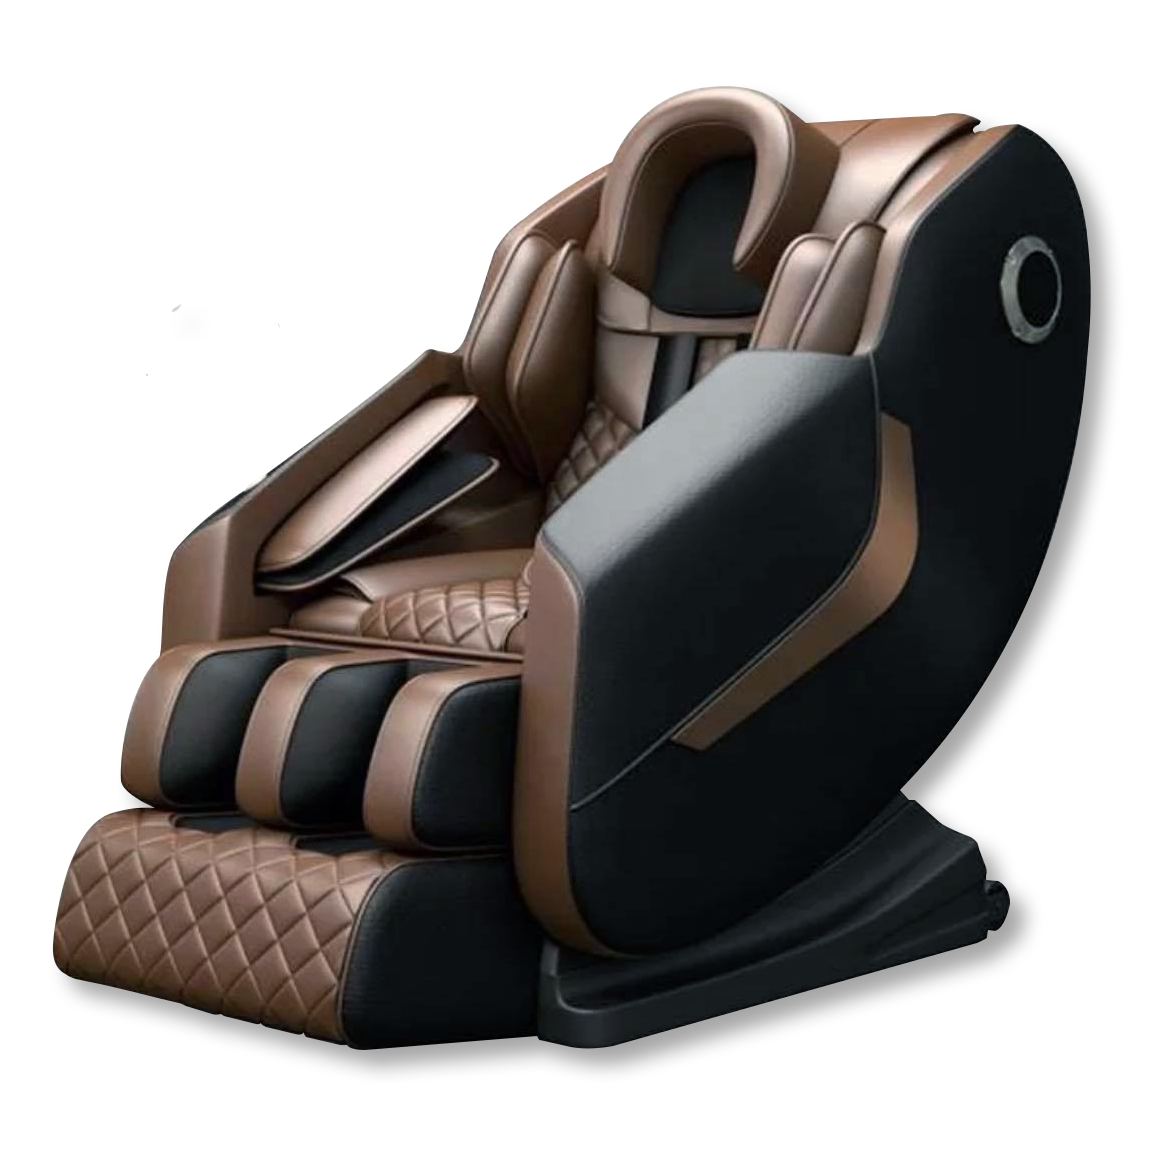
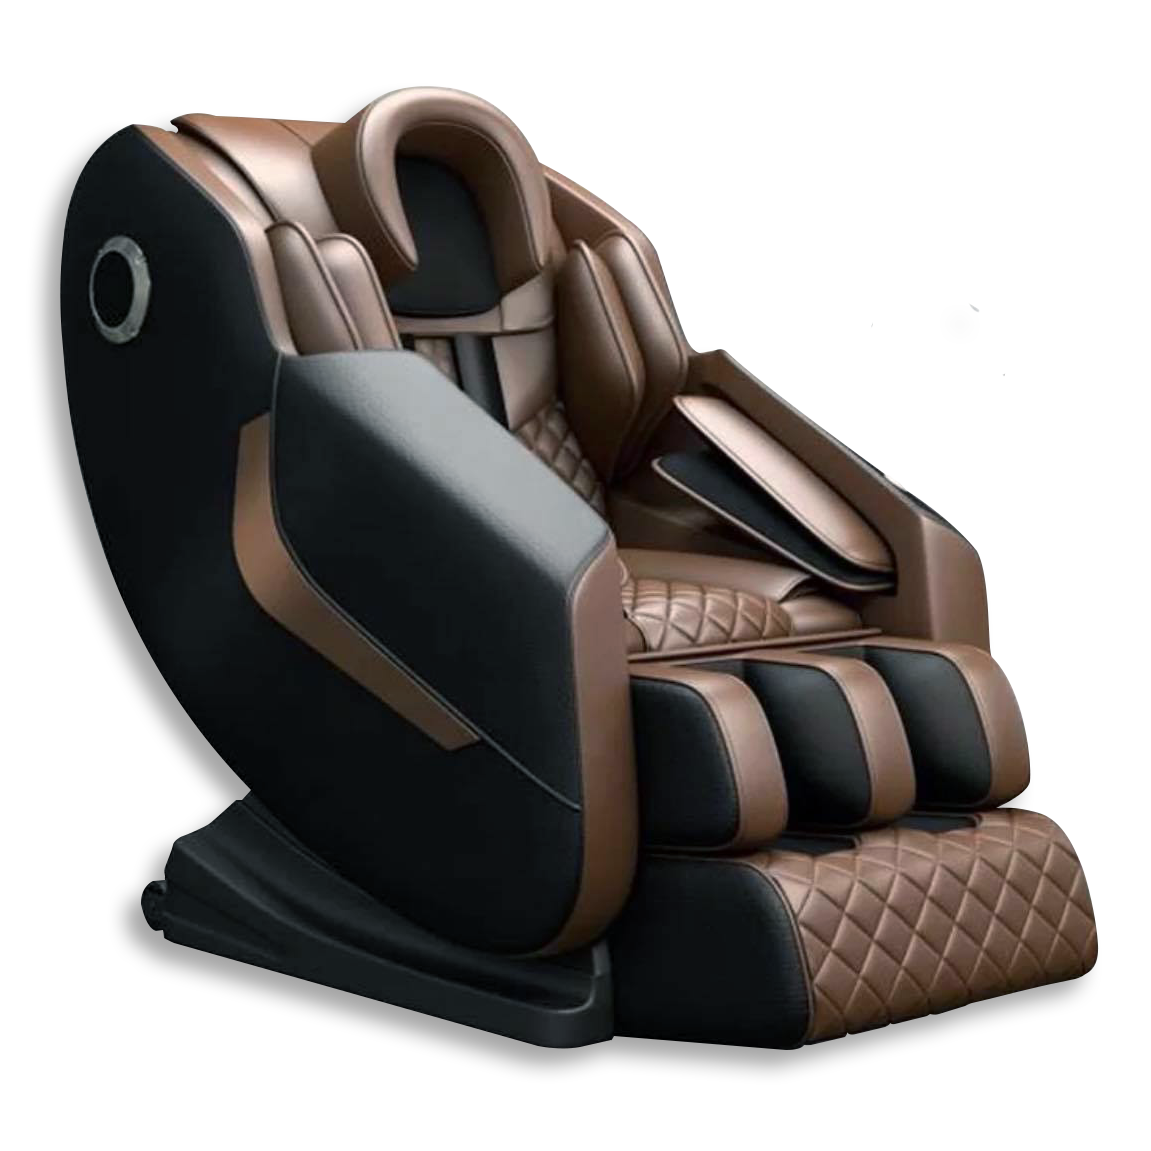
updated products

diff --git a/src/components/Products/Prestige.js b/src/components/Products/Prestige.js
@@ -3,9 +3,9 @@ import { Row, Col, Button } from "react-bootstrap";
 
 import DetailsModal from "../Modals/DetailsModal";
 import OrderFormModal from "../Modals/OrderFormModal";
-import ImageDeluxe from "../Images/ImageDeluxe";
+import ImagePrestige from "../Images/ImagePrestige";
 
-const Deluxe = () => {
+const Prestige = () => {
   const [modalDetailsShow, setModalDetailsShow] = useState(false);
   const [modalOrderShow, setModalOrderShow] = useState(false);
 
@@ -16,9 +16,9 @@ const Deluxe = () => {
   const closeModalOrder = () => setModalOrderShow(false);
 
   return (
-    <Row className="deluxe pt-5 mt-5">
+    <Row className="prestige pt-5 mt-5">
       <Col sm={12} md={6}>
-        <ImageDeluxe />
+        <ImagePrestige className="prestige-image" />
       </Col>
       <Col
         sm={12}
@@ -26,21 +26,21 @@ const Deluxe = () => {
         className="d-flex flex-column align-items-end pt-sm-0 p-md-5"
       >
         <h1 className="my-0 text-right">
-          <span className="text-primary">zion</span>Deluxe
+          <span className="text-primary">zion</span>Prestige
         </h1>
         <span className="text-danger">
           <small
             className="text-gray mr-1"
             style={{ textDecoration: "line-through" }}
           >
-            &#8369; 199,998
+            &#8369; 159,998
           </small>
-          &#8369; 99,999
+          &#8369; 79,999
         </span>
         <div className="my-3 my-md-4 my-lg-5 text-right">
           <p>Core for more Intelligent</p>
           <p>8D Massage Manipulator</p>
-          <p className="mb-0">6 Smart Massage Programs</p>
+          <p className="mb-0">Human Stimulation Massage</p>
         </div>
         <Button variant="outline-secondary" onClick={showModalDetails}>
           View Details
@@ -59,4 +59,4 @@ const Deluxe = () => {
   );
 };
 
-export default Deluxe;
+export default Prestige;

diff --git a/src/components/Images/ImagePrestige.js b/src/components/Images/ImagePrestige.js
@@ -2,14 +2,23 @@ import React from "react";
 import { useStaticQuery, graphql } from "gatsby";
 import Img from "gatsby-image";
 
-const ImagePrestige = () => {
+const ImagePrestige = ({ className }) => {
   const data = useStaticQuery(graphql`
     query {
-      placeholderImage: file(
-        relativePath: { eq: "products/Prestige-Shadow.png" }
+      prestige: file(
+        relativePath: { eq: "products/prestige/prestige-shadow.png" }
       ) {
         childImageSharp {
-          fixed(width: 500, quality: 100) {
+          fixed(width: 480, quality: 100) {
+            ...GatsbyImageSharpFixed
+          }
+        }
+      }
+      prestigeSm: file(
+        relativePath: { eq: "products/prestige/prestige-shadow.png" }
+      ) {
+        childImageSharp {
+          fixed(width: 315, quality: 100) {
             ...GatsbyImageSharpFixed
           }
         }
@@ -17,8 +26,19 @@ const ImagePrestige = () => {
     }
   `);
 
-  const imageData = data.placeholderImage.childImageSharp.fixed;
-  return <Img fixed={imageData} />;
+  const { prestigeSm, prestige } = data;
+
+  const sources = [
+    {
+      ...prestigeSm.childImageSharp.fixed,
+    },
+    {
+      ...prestige.childImageSharp.fixed,
+      media: "(min-width: 576px)",
+    },
+  ];
+
+  return <Img alt="ZionPrestige" fixed={sources} className={className} />;
 };
 
 export default ImagePrestige;

diff --git a/src/components/Images/ImageExecutive.js b/src/components/Images/ImageExecutive.js
@@ -2,14 +2,23 @@ import React from "react";
 import { useStaticQuery, graphql } from "gatsby";
 import Img from "gatsby-image";
 
-const ImageExecutive = () => {
+const ImageExecutive = ({ className }) => {
   const data = useStaticQuery(graphql`
     query {
-      placeholderImage: file(
+      executive: file(
         relativePath: { eq: "products/executive/executive-shadow.png" }
       ) {
         childImageSharp {
-          fixed(width: 500, quality: 100) {
+          fixed(width: 480, quality: 100) {
+            ...GatsbyImageSharpFixed
+          }
+        }
+      }
+      executiveSm: file(
+        relativePath: { eq: "products/executive/executive-shadow.png" }
+      ) {
+        childImageSharp {
+          fixed(width: 315, quality: 100) {
             ...GatsbyImageSharpFixed
           }
         }
@@ -17,8 +26,18 @@ const ImageExecutive = () => {
     }
   `);
 
-  const imageData = data.placeholderImage.childImageSharp.fixed;
-  return <Img fixed={imageData} />;
+  const { executiveSm, executive } = data;
+
+  const sources = [
+    {
+      ...executiveSm.childImageSharp.fixed,
+    },
+    {
+      ...executive.childImageSharp.fixed,
+      media: "(min-width: 576px)",
+    },
+  ];
+  return <Img alt="ZionExecutive" fixed={sources} className={className} />;
 };
 
 export default ImageExecutive;

diff --git a/src/components/Products/Executive.js b/src/components/Products/Executive.js
@@ -3,9 +3,9 @@ import { Row, Col, Button } from "react-bootstrap";
 
 import DetailsModal from "../Modals/DetailsModal";
 import OrderFormModal from "../Modals/OrderFormModal";
-import ImageDeluxe from "../Images/ImageDeluxe";
+import ImageExecutive from "../Images/ImageExecutive";
 
-const Deluxe = () => {
+const Executive = () => {
   const [modalDetailsShow, setModalDetailsShow] = useState(false);
   const [modalOrderShow, setModalOrderShow] = useState(false);
 
@@ -16,9 +16,9 @@ const Deluxe = () => {
   const closeModalOrder = () => setModalOrderShow(false);
 
   return (
-    <Row className="deluxe pt-5 mt-5">
+    <Row className="executive pt-5 mt-5">
       <Col sm={12} md={6}>
-        <ImageDeluxe />
+        <ImageExecutive />
       </Col>
       <Col
         sm={12}
@@ -26,7 +26,7 @@ const Deluxe = () => {
         className="d-flex flex-column align-items-end pt-sm-0 p-md-5"
       >
         <h1 className="my-0 text-right">
-          <span className="text-primary">zion</span>Deluxe
+          <span className="text-primary">zion</span>Executive
         </h1>
         <span className="text-danger">
           <small
@@ -59,4 +59,4 @@ const Deluxe = () => {
   );
 };
 
-export default Deluxe;
+export default Executive;

diff --git a/src/components/Images/ImageDeluxe.js b/src/components/Images/ImageDeluxe.js
@@ -7,7 +7,7 @@ const ImageDeluxe = ({ className }) => {
     query {
       deluxe: file(relativePath: { eq: "products/deluxe/deluxe-shadow.png" }) {
         childImageSharp {
-          fixed(width: 500, quality: 100) {
+          fixed(width: 480, quality: 100) {
             ...GatsbyImageSharpFixed
           }
         }
@@ -24,7 +24,7 @@ const ImageDeluxe = ({ className }) => {
     }
   `);
 
-  const { deluxe, deluxeSm } = data;
+  const { deluxeSm, deluxe } = data;
 
   const sources = [
     {

diff --git a/src/components/Products/Products.js b/src/components/Products/Products.js
@@ -1,11 +1,15 @@
 import React from "react";
 
 import Deluxe from "./Deluxe";
+import Prestige from "./Prestige";
+import Executive from "./Executive";
 
 const Products = () => {
   return (
-    <section id="products" className="pt-5 mt-5">
+    <section id="products">
       <Deluxe />
+      <Prestige />
+      <Executive />
     </section>
   );
 };

diff --git a/src/style/layout/_products.scss b/src/style/layout/_products.scss
@@ -1,6 +1,8 @@
-.deluxe {
-  .deluxe-image {
-    transform: scaleX(-1);
-    -webkit-transform: scaleX(-1);
-  }
-}
+// .prestige,
+// .premiere {
+//   .prestige-image,
+//   .premiere-image {
+//     display: flex;
+//     justify-content: flex-end;
+//   }
+// }
